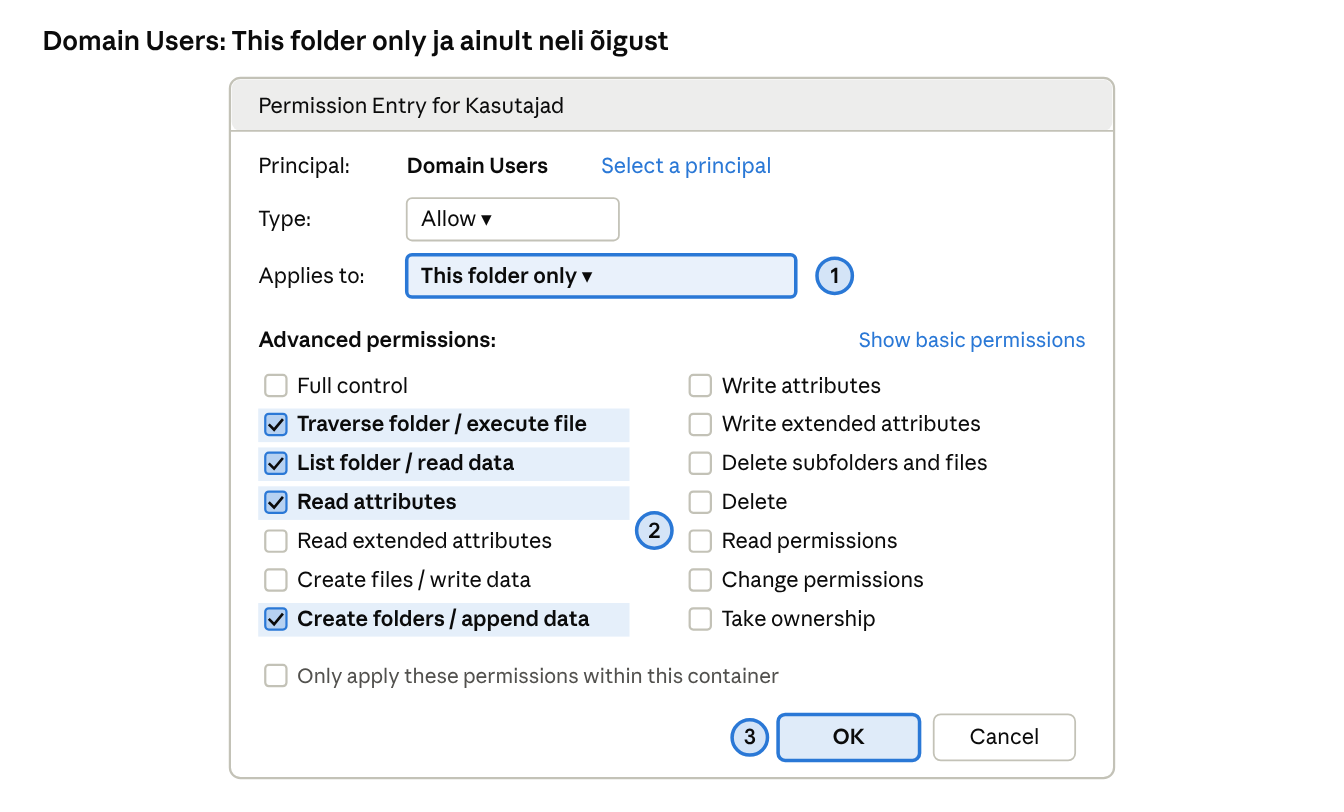
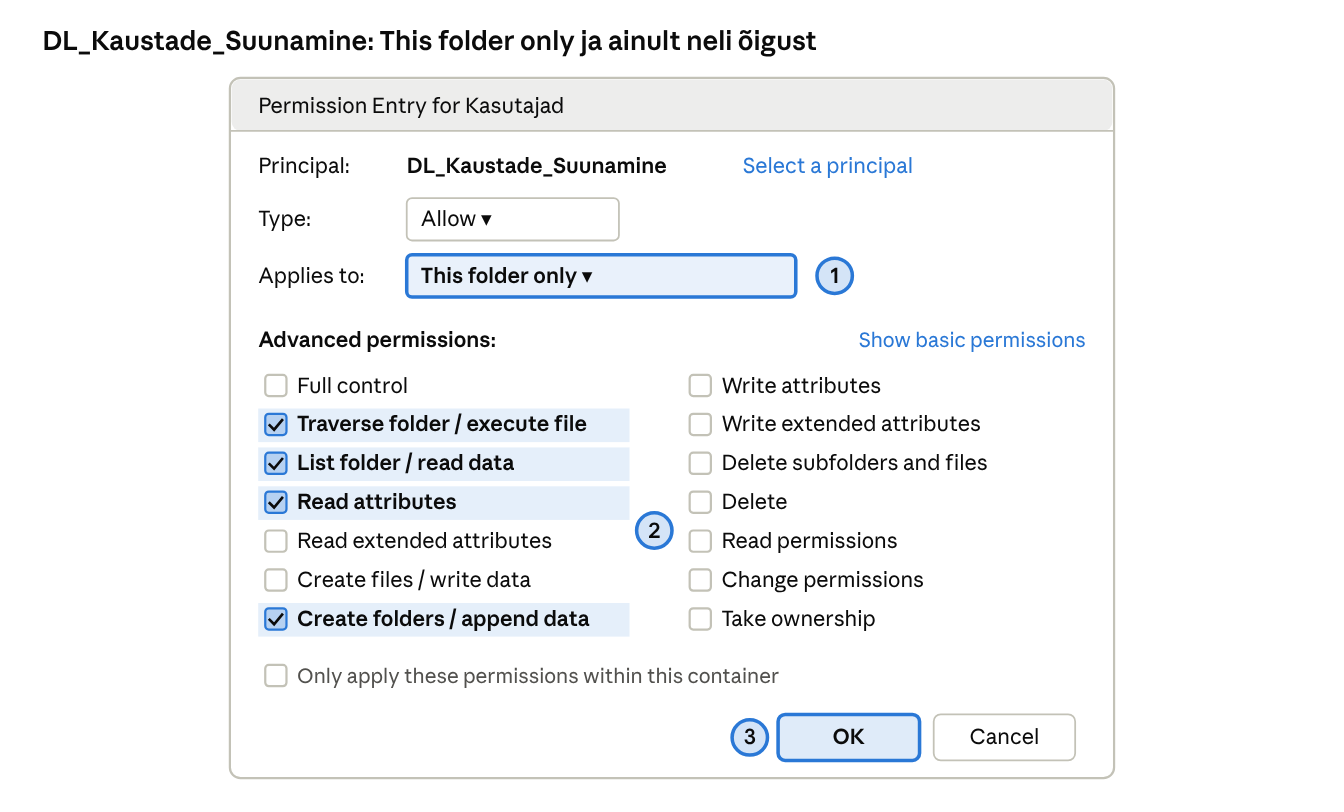
15: turvarühm DL_Kaustade_Suunamine, GPO turvafilter ja päris kuvatõmmised varasemast materjalist
Claude-Session: https://claude.ai/code/session_01JGgdcJ46Hjcys2TECGErkA

Changed region(s): [[0.0312, 0.0308, 0.625, 0.0616], [0.3125, 0.1847, 0.6875, 0.2155]]

diff --git a/peatykid/15-kaustade-umbersuunamine-ja-vorguketas.md b/peatykid/15-kaustade-umbersuunamine-ja-vorguketas.md
@@ -34,7 +34,36 @@ FSRM automaatkvoot `F:\Kasutajad` (peatükk 13) märkab uue alamkausta ja rakend
 
 Kaustade ümbersuunamine loob kausta enne, kui Drive Maps üritab seda `H:`-ks kaardistada; FSRM paneb uuele kaustale kohe 100 MB piiri.
 
-### 15.3 Juurkausta õigused
+### 15.3 Turvarühm ja juurkausta õigused
+
+#### Turvarühm `DL_Kaustade_Suunamine`
+
+Kaustade ümbersuunamine ja isiklik võrguketas ei rakendu kõigile domeeni kasutajatele, vaid ainult neile, kes kuuluvad turvarühma `DL_Kaustade_Suunamine`. Rühma kasutatakse kahes kohas:
+
+- **juurkausta NTFS-õigustes** – ainult rühma liikmed saavad `F:\Kasutajad` alla oma kausta luua;
+- **GPO-de turvafiltris** (15.4) – `U_Kaustade_Suunamine` ja `U_Isiklik_Ketas` rakenduvad ainult rühma liikmetele.
+
+Nii saab ümbersuunamise sisse lülitada järk-järgult (nt esmalt ainult IT-osakonnale) ja kasutaja eemaldamine rühmast lülitab selle tema jaoks välja. AGDLP järgi on rühma liikmed globaalrühmad, mitte üksikud kasutajad.
+
+> **NB!** Allpool on rühma loomine kahel viisil: **A) GUI** ja **B) PowerShell**. Piisab ühest.
+
+**Variant A: GUI**
+
+1. DC1: `dsa.msc` → paremklikk `Labor → Ryhmad` → *New → Group* → nimi `DL_Kaustade_Suunamine`, *Group scope* **Domain local**, *Group type* **Security** → OK.
+2. Topeltklikk rühmal → vahekaart *General* → *Description*: „Kaustade ümbersuunamine ja H: ketas“.
+3. Vahekaart **Members** → *Add...* → `GG_IT; GG_Raamatupidamine; GG_Myyk` → *Check Names* → OK → OK.
+4. Kontroll: kasutaja omadustes vahekaart *Member Of* näitab tema globaalrühma. Rühma liikmesus jõustub kasutaja **järgmisel sisselogimisel**.
+
+**Variant B: PowerShell**
+
+```powershell
+New-ADGroup -Name DL_Kaustade_Suunamine -GroupScope DomainLocal -GroupCategory Security `
+  -Path "OU=Ryhmad,OU=Labor,DC=perenimi,DC=local" -Description "Kaustade ümbersuunamine ja H: ketas"
+Add-ADGroupMember DL_Kaustade_Suunamine -Members GG_IT, GG_Raamatupidamine, GG_Myyk
+Get-ADGroupMember DL_Kaustade_Suunamine -Recursive | Select-Object SamAccountName
+```
+
+#### Juurkausta NTFS- ja jagamisõigused
 
 Õiged õigused on kõige olulisem osa: kasutaja peab saama juurkausta **luua oma kausta**, kuid ei tohi **näha ega avada teiste kaustu**. Microsofti soovitus kaustade ümbersuunamise juurkaustale:
 
@@ -43,7 +72,7 @@ Kaustade ümbersuunamine loob kausta enne, kui Drive Maps üritab seda `H:`-ks k
 | SYSTEM | Full control | See kaust, alamkaustad ja failid |
 | PERENIMI\\Domain Admins | Full control | See kaust, alamkaustad ja failid |
 | CREATOR OWNER | Full control | Ainult alamkaustad ja failid |
-| PERENIMI\\Domain Users | List folder / read data, Create folders / append data, Traverse folder, Read attributes | **Ainult see kaust** |
+| PERENIMI\\DL\_Kaustade\_Suunamine | List folder / read data, Create folders / append data, Traverse folder, Read attributes | **Ainult see kaust** |
 | Jagamine `Kasutajad$` | Authenticated Users: Full control (piirab NTFS), ABE sees | — |
 
 Kuidas see töötab: Mari saab juurkausta luua kausta (`Create folders`). Loodud kausta omanikuks saab Mari ning *CREATOR OWNER* reegel muutub tema jaoks täielikuks õiguseks just sellele kaustale. Teised kasutajad ei saa Mari kausta avada, sest nende õigus juurkaustas kehtib „ainult sellele kaustale“. ABE peidab teiste kaustad ka nimekirjast.
@@ -57,16 +86,30 @@ Kuidas see töötab: Mari saab juurkausta luua kausta (`Create folders`). Loodud
 3. *Add* → *Select a principal* `SYSTEM` → *Basic permissions*: **Full control**, *Applies to*: *This folder, subfolders and files* → OK.
 4. *Add* → `Domain Admins` → **Full control**, *This folder, subfolders and files* → OK.
 5. *Add* → `CREATOR OWNER` → **Full control**, *Applies to*: **Subfolders and files only** → OK.
-6. *Add* → `Domain Users` → *Applies to*: **This folder only** → *Show advanced permissions* → jäta märgituks ainult **Traverse folder / execute file**, **List folder / read data**, **Read attributes**, **Create folders / append data** → OK.
+6. *Add* → `DL_Kaustade_Suunamine` → *Applies to*: **This folder only** → *Show advanced permissions* → jäta märgituks ainult **Traverse folder / execute file**, **List folder / read data**, **Read attributes**, **Create folders / append data** → OK.
 7. *Apply* → OK. Kontroll: *Advanced* aknas on täpselt neli kirjet ja veerus *Inherited from* „None“.
 
 ![Skeem · NTFS: Advanced Security Settings for Kasutajad](joonised/15-skeem-advanced-security.png)
 
 *Skeem · NTFS: Advanced Security Settings for Kasutajad*
 
-![Skeem · NTFS: Permission Entry, Domain Users](joonised/15-skeem-permission-entry.png)
+![Skeem · NTFS: Permission Entry, DL\_Kaustade\_Suunamine](joonised/15-skeem-permission-entry.png)
 
-*Skeem · NTFS: Permission Entry, Domain Users*
+*Skeem · NTFS: Permission Entry, DL\_Kaustade\_Suunamine*
+
+**Päris aknad** varasemast materjalist (seal on kaust `F:\RedirFolder` ja rühm `RedirectFolders`, põhimõte sama):
+
+<img src="https://github.com/user-attachments/assets/4b257c24-19b7-4301-ae0d-ac3b6650e51e" alt="juurkausta õiguste kirjed" width="450">
+
+*juurkausta õiguste kirjed*
+
+<img src="https://github.com/user-attachments/assets/b365e75c-6b2a-4858-acac-ee2dc3d9bd3e" alt="rühma õigused „This folder only“" width="450">
+
+*rühma õigused „This folder only“*
+
+<img src="https://github.com/user-attachments/assets/fb9f7872-b435-4dd4-ae56-275a44e9180e" alt="jagamisõigused: Authenticated Users Full Control" width="450">
+
+*jagamisõigused: Authenticated Users Full Control*
 
 #### Variant B: PowerShell (icacls)
 
@@ -74,7 +117,7 @@ Kuidas see töötab: Mari saab juurkausta luua kausta (`Create folders`). Loodud
 # CORE1-l: pärimine maha ja õigused Microsofti soovituse järgi
 icacls F:\Kasutajad /inheritance:r
 icacls F:\Kasutajad /grant:r "SYSTEM:(OI)(CI)F" "PERENIMI\Domain Admins:(OI)(CI)F" "CREATOR OWNER:(OI)(CI)(IO)F"
-icacls F:\Kasutajad /grant "PERENIMI\Domain Users:(RD,AD,X,RA)"
+icacls F:\Kasutajad /grant "PERENIMI\DL_Kaustade_Suunamine:(RD,AD,X,RA)"
 icacls F:\Kasutajad
 ```
 
@@ -89,6 +132,28 @@ icacls F:\Kasutajad
 
 Kaustade ümbersuunamise seadeid ei saa PowerShelli `Set-GPRegistryValue`-ga seada (need on failis `fdeploy1.ini`, mitte registris), seetõttu tehakse see osa GPMC-s.
 
+#### Turvafilter: GPO rakendub ainult rühmale
+
+Mõlemal kasutaja-GPO-l (`U_Kaustade_Suunamine` ja `U_Isiklik_Ketas`):
+
+1. GPMC-s vali GPO → vahekaart **Scope** → *Security Filtering*: vali *Authenticated Users* → **Remove** → *Add...* → `DL_Kaustade_Suunamine` → OK.
+2. Vahekaart **Delegation** → *Add...* → `Authenticated Users` → õigus **Read** (mitte *Apply*). Alates turvauuendusest MS16-072 loeb kasutaja GPO-d arvutikonto kaudu; ilma selleta ei rakendu GPO kellelegi. (Varasemas materjalis lisati sama eesmärgiga turvafiltrisse *Domain Computers* – ka see töötab.)
+3. Kontroll kliendil: `gpresult /r` – rühma liikmel on GPO-d *Applied GPOs* all, mitteliikmel *Denied GPOs* all põhjusega *Security Filtering*.
+
+**Päris aknad** varasemast materjalist:
+
+<img src="https://github.com/user-attachments/assets/3051080d-163b-4e52-aa6d-76d4b2b38f31" alt="turvafilter" width="450">
+
+*turvafilter*
+
+<img src="https://github.com/user-attachments/assets/8e812b3c-8f57-4a9f-adba-2b458555d333" alt="Documents → Target: Basic ja Root Path" width="450">
+
+*Documents → Target: Basic ja Root Path*
+
+<img src="https://github.com/user-attachments/assets/8f4e1e33-7a35-4265-9597-e9d95ee77ce8" alt="vahekaart Settings: Grant exclusive rights ja Move the contents" width="450">
+
+*vahekaart Settings: Grant exclusive rights ja Move the contents*
+
 > **OneDrive'i hoiatus.** Kui arvutis on OneDrive'i *Known Folder Move* (Töölaua ja Dokumentide varundus OneDrive'i) sees, on sellel ja kaustade ümbersuunamisel konflikt. Domeeniarvutites kasuta korraga ainult ühte neist.
 
 ### 15.5 Tõrkeotsing
@@ -100,6 +165,7 @@ Kaustade ümbersuunamise seadeid ei saa PowerShelli `Set-GPRegistryValue`-ga sea
 | `H:` ei ilmu | Kaust puudub (vaata *Folders* üksust), Drive Maps üksus vale kasutaja kontekstis, kasutaja pole OU-s Kasutajad |
 | „There is not enough space“ | 100 MB kvoot täis; kontrolli `Get-FsrmQuota -Path F:\Kasutajad\<nimi>` |
 | Administraator ei pääse kasutaja kausta | *Grant the user exclusive rights* jäi sisse – kaust loodi ainuõigusega |
+| Ümbersuunamine ja H: ei rakendu kellelegi või mõnele kasutajale | Kasutaja pole rühmas DL\_Kaustade\_Suunamine (või pole pärast rühma lisamist uuesti sisse loginud); GPO vahekaardil Delegation puudub Authenticated Users: Read. gpresult /r näitab GPO-d Denied GPOs all. |
 
 Logid kliendil: *Applications and Services Logs → Microsoft → Windows → Folder Redirection → Operational* (sündmus **1001** = edukas ümbersuunamine) ning `gpresult /h C:\gp.html`.
 
@@ -111,13 +177,19 @@ Logid kliendil: *Applications and Services Logs → Microsoft → Windows → Fo
 
 **Sammud:**
 
-1. Sea `F:\Kasutajad` õigused 15.3 järgi ja kontrolli `icacls`-iga. Kontrolli, et jagamine `Kasutajad$` on olemas ja ABE sees.
+1. Loo rühm `DL_Kaustade_Suunamine` ja lisa liikmed (15.3). Kontrolli, et `juhan.juurikas` kuulub mõnda liikmeks lisatud globaalrühma (vajadusel lisa ta ühte neist).
+
+   Sea `F:\Kasutajad` õigused 15.3 järgi ja kontrolli `icacls`-iga. Kontrolli, et jagamine `Kasutajad$` on olemas ja ABE sees.
 2. Loo ja lingi GPO `C_Oota_Vorku` OU-le `Arvutid`.
 3. Loo GPO `U_Kaustade_Suunamine` ja seadista *Desktop* ning *Documents* tabeli 15.4 järgi. Lingi OU-le `Kasutajad`.
 4. Loo GPO `U_Isiklik_Ketas`: *Folders* üksus ja *Drive Maps* üksus `H:`. Lingi OU-le `Kasutajad`.
 5. Eemalda Osa I Labor 7 kodukaustade seaded, kui need olid (ADUC *Profile → Home folder* tühjaks), et `H:` ei oleks kahes kohas määratud.
 6. WIN11-02: `gpupdate /force`, taaskäivita, logi sisse kui `juhan.juurikas` (kasutaja, kes pole varem sisse loginud).
 7. Kontrolli kliendil: Explorer → *Töölaud* → paremklikk *Properties → Location*: peab olema `\\perenimi.local\Andmed\Kasutajad\juhan.juurikas\Desktop`. `H:` draiv on olemas ja selle maht on 100 MB.
+
+   <img src="https://github.com/user-attachments/assets/45f8de2c-9a38-406a-a483-9a6faec71d5c" alt="Vaata, milline see aken välja näeb (Documents → Location)" width="450">
+
+   *Vaata, milline see aken välja näeb (Documents → Location)*
 8. Kontrolli CORE1-l: `F:\Kasutajad\juhan.juurikas` on tekkinud, `Get-FsrmQuota -Path F:\Kasutajad\juhan.juurikas` näitab 100 MB. Kontrolli DC1-l, et kaust replikeerus ka `F:\Kasutajad`.
 9. Salvesta Töölauale fail ja logi sisse **teise** arvutisse (WIN11-01) sama kasutajaga: fail on Töölaual olemas.
 10. Testi kvooti: kopeeri `H:`-le 120 MB faile – peab ebaõnnestuma.
